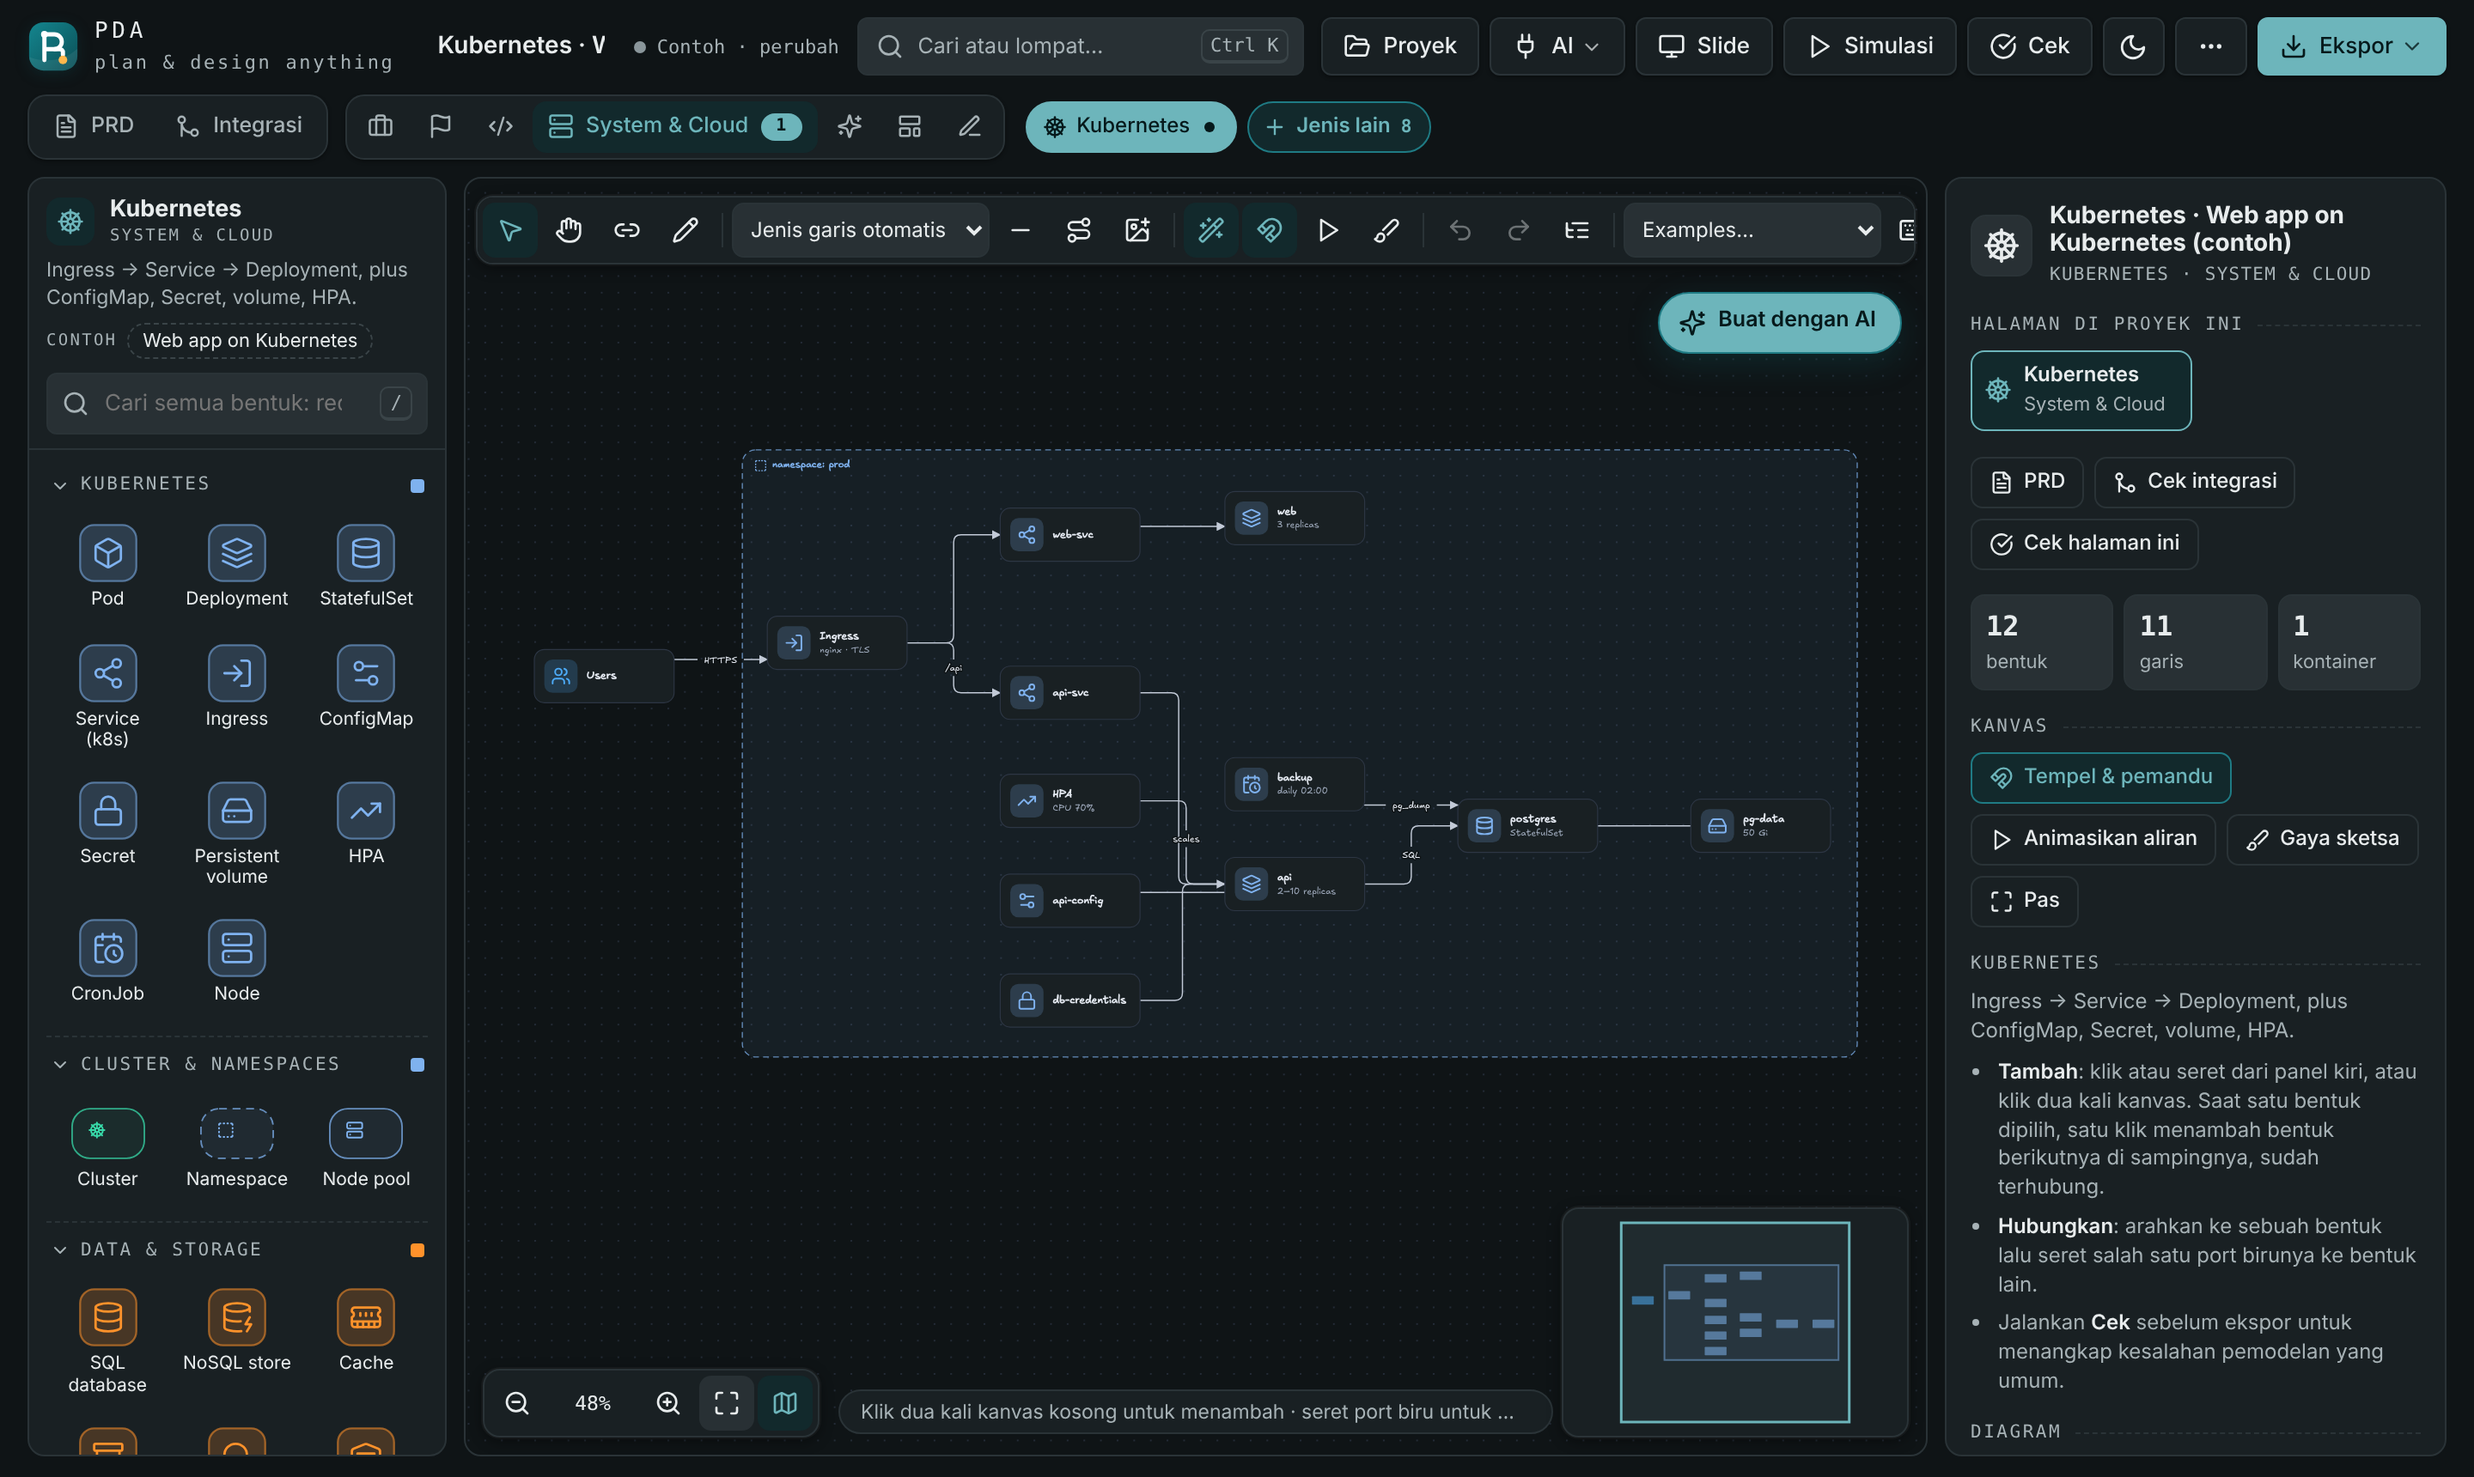
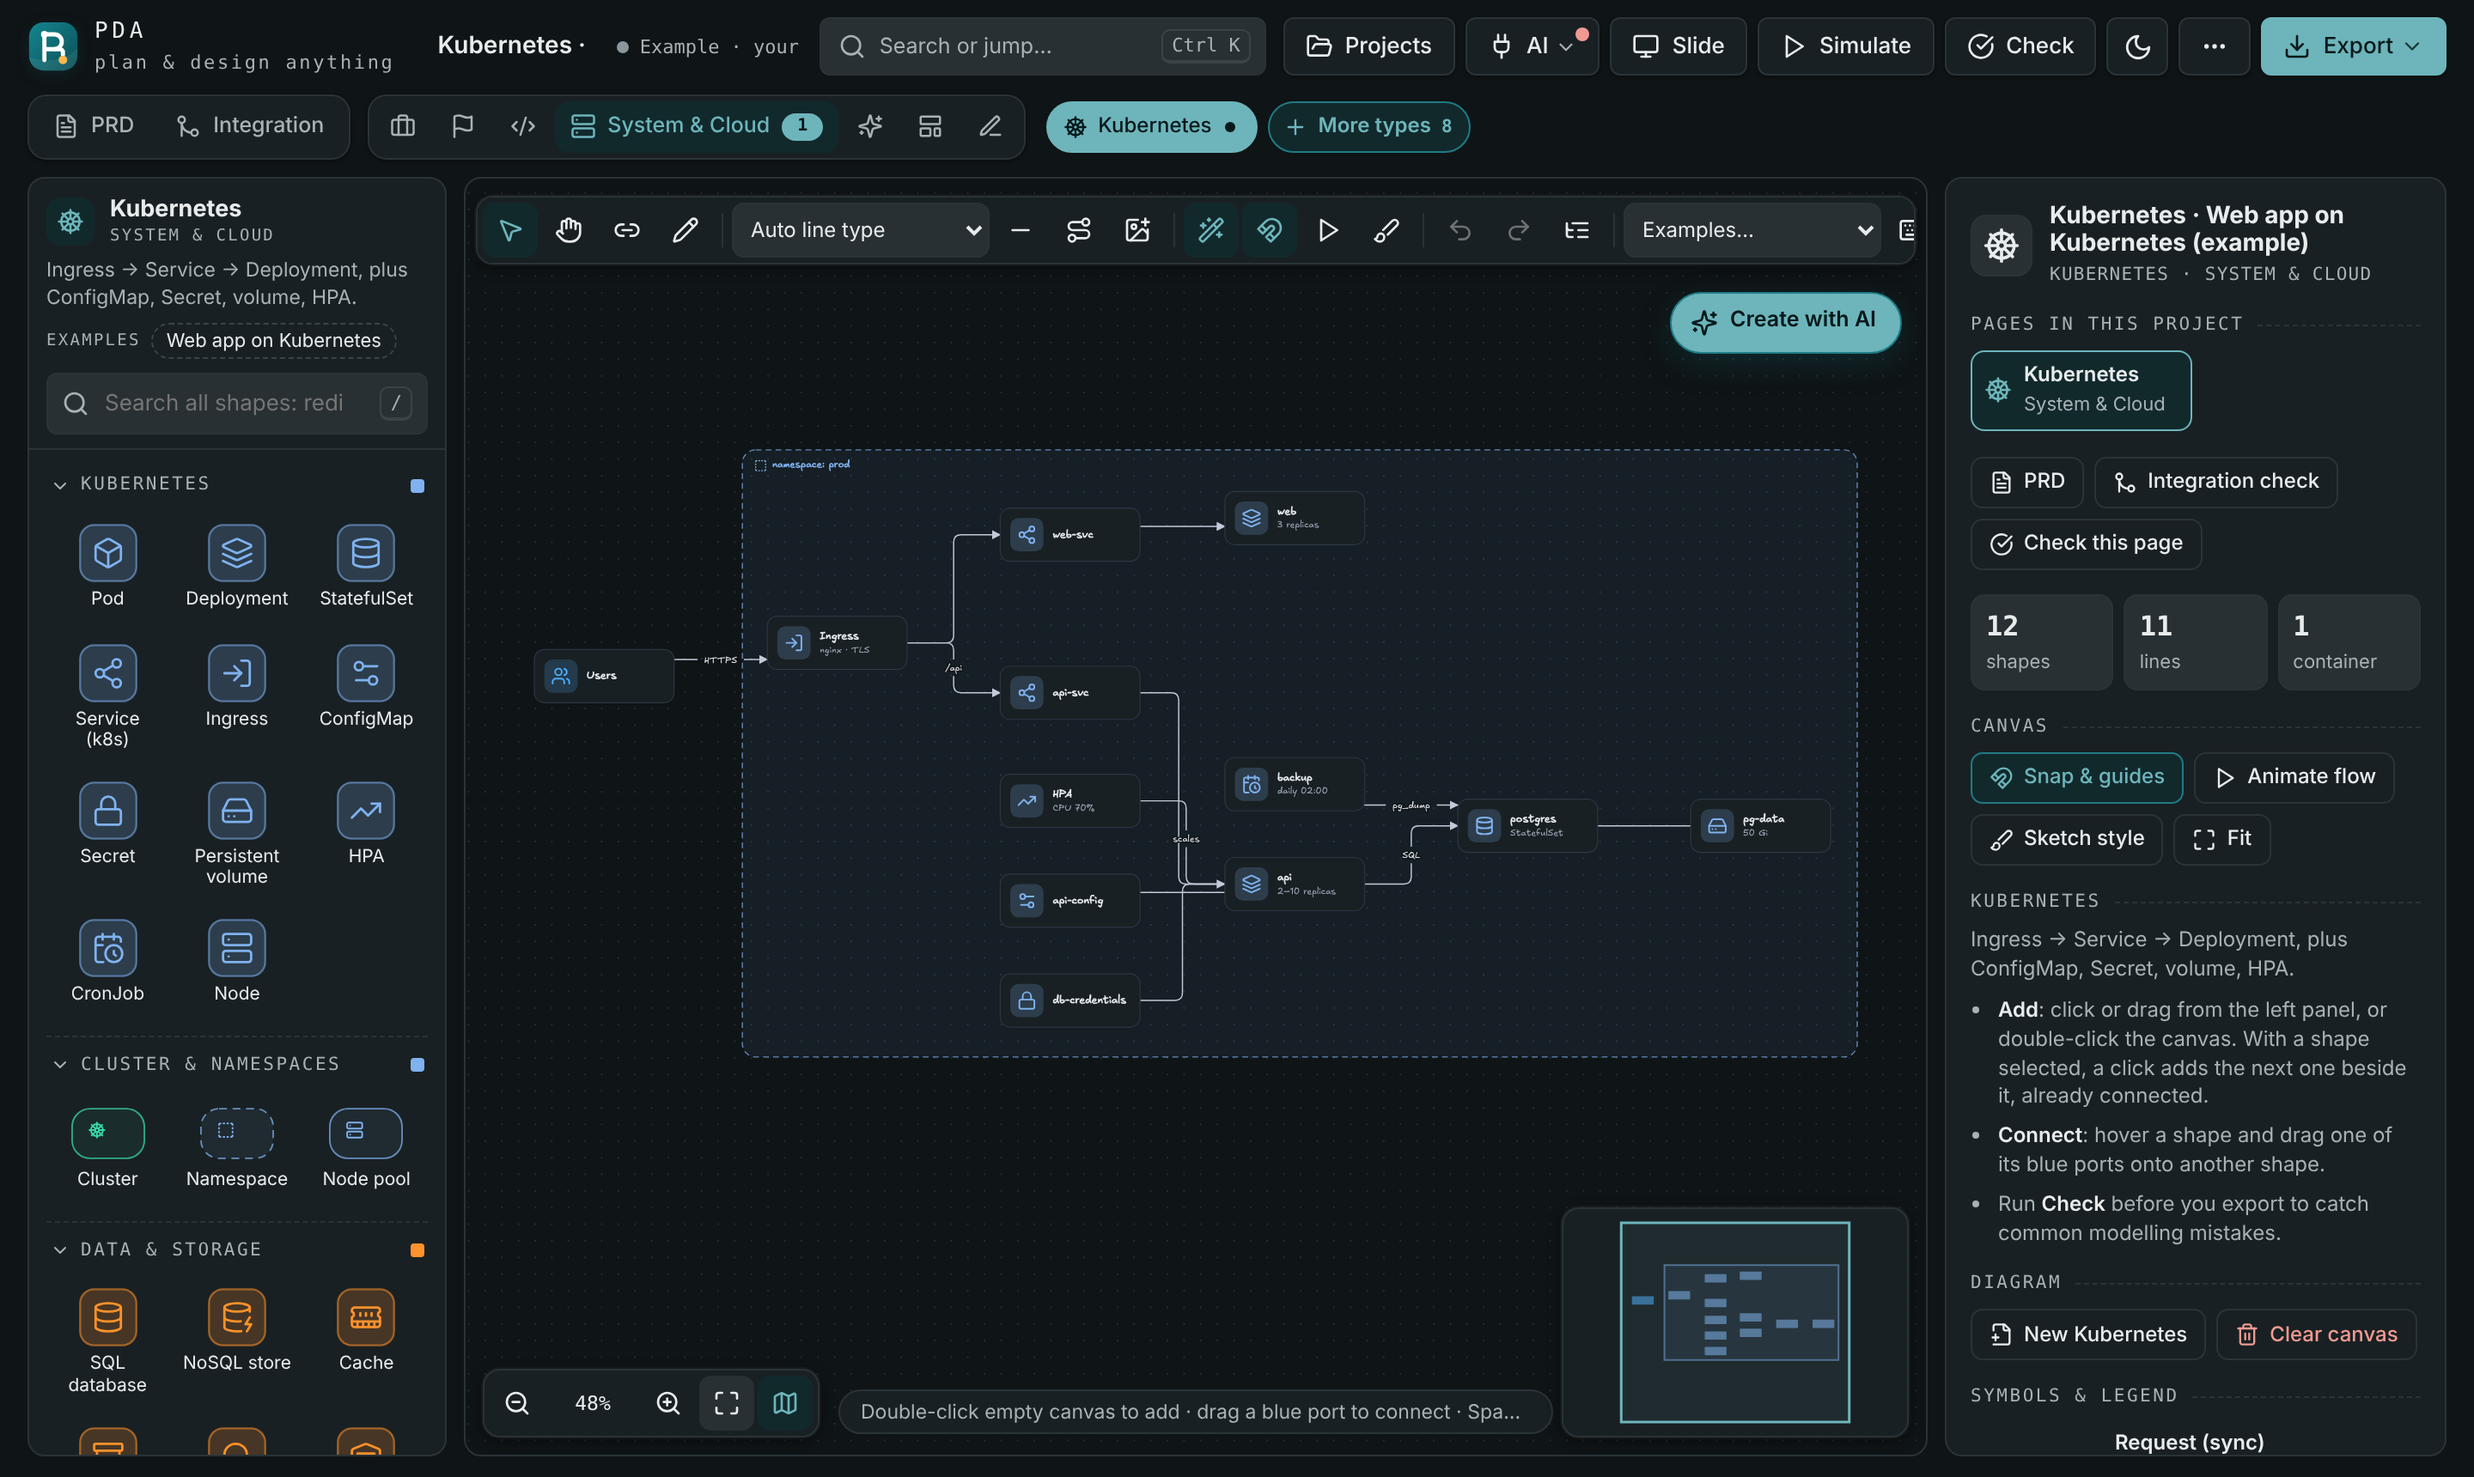
docs: interface languages, when AI connects by itself, English screenshots

diff --git a/README.md b/README.md
@@ -43,6 +43,7 @@ It ships as **one self-contained HTML file**. Open it from your disk, host it on
 | **Lines that behave** | Orthogonal router with A* search. In dense graphs (200 shapes, 300 lines) **no line passes through a shape**. Labels sit *on* the line like Excalidraw and slide along it. Drag segments, add bends, and switch between straight, elbow and curve |
 | **All 694 tech logos** | The whole [tech-stack-icons](https://www.tech-stack-icons.com/) pack (MIT) in light and dark. Search any of them, or browse *Semua logo tech*. The section loads only when opened. Catalog items without a logo in the pack get a monogram badge |
 | **Present it** | Pitch-deck slides with charts and tables, PowerPoint export, step-through simulation of flows |
+| **English or Indonesian** | The interface follows your browser's language and switches from the ⋯ menu (*Language*). The choice is remembered |
 | **Yours, on your disk** | Projects can live in a folder you pick as plain `.pda.json` files. They also export to PNG, SVG and JSON |
 
 <p align="center">
@@ -129,6 +130,7 @@ See [SECURITY.md](SECURITY.md) to report a vulnerability, and [docs/security.md]
 | [docs/line-routing.md](docs/line-routing.md) | The router, labels, waypoints and keyboard shortcuts for lines |
 | [docs/project-folder.md](docs/project-folder.md) | Saving projects to a folder, the `.pda.json` format |
 | [docs/architecture.md](docs/architecture.md) | Source layout, ES modules and install order, extension setters, types, build |
+| [docs/i18n.md](docs/i18n.md) | Interface languages, adding a translation |
 | [docs/security.md](docs/security.md) | Threat model, CSP, sanitization, key handling |
 | [docs/testing.md](docs/testing.md) | Test suites and how to add one |
 | [AGENTS.md](AGENTS.md) | Rules for humans and coding agents working on this repo |
@@ -142,7 +144,7 @@ Yes. `dist/index.html` holds the app, the icons (Lucide), the tech logos and the
 
 <details><summary><b>Do I need an API key for AI?</b></summary>
 
-Not when PDA runs inside Claude, which provides the built-in model. Standalone, pick a provider under **AI** and paste your key, or run a local model with Ollama or LM Studio for free.
+It depends where PDA runs. **Inside Claude** (as an artifact), the built-in model uses your Claude account, so no key is needed. **Standalone** (`dist/index.html`, GitHub Pages), there is no Claude connection: `npm install` only installs developer tools, and building with Claude Code does not link the app to Claude either. Pick a provider under **AI** and paste a key (an Anthropic API key gives you Claude), or run a local model with Ollama or LM Studio for free. The status dot tells you whether it connects.
 </details>
 
 <details><summary><b>Where is my work saved?</b></summary>

diff --git a/README.id.md b/README.id.md
@@ -31,6 +31,7 @@ PDA dikirim sebagai **satu file HTML mandiri**. File itu bisa dibuka langsung da
 - **Buat dengan AI di setiap kanvas**: jenis diagram bisa dipilih sendiri atau ditentukan AI. Hasilnya diletakkan *di sebelah* hasil sebelumnya, dan Ctrl+Z membatalkannya. Pakai Claude bawaan atau model milikmu (OpenAI, Anthropic, Gemini, Groq, OpenRouter, DeepSeek, Ollama, LM Studio). Status **Terhubung / Tidak terhubung** langsung muncul begitu kunci API dimasukkan.
 - **Garis yang rapi**: router ortogonal A*. Pada graf padat (200 bentuk, 300 garis) tidak ada satu pun garis yang menembus bentuk. Label duduk di atas garis seperti di Excalidraw dan bisa digeser. Segmen bisa diseret dan tekukan bisa ditambah.
 - **Semua 694 logo** dari tech-stack-icons (MIT), versi terang dan gelap. Semuanya bisa dicari di palet atau dibuka lewat bagian *Semua logo tech*. Produk yang belum punya logo diberi lencana monogram.
+- **Bahasa Inggris atau Indonesia**: antarmuka mengikuti bahasa browser dan bisa diganti dari menu ⋯ (*Bahasa*). Pilihannya diingat.
 - **Folder proyek**: proyek disimpan sebagai file `.pda.json` di folder pilihanmu. Daftarnya bisa di-scroll dan langsung dibuka.
 
 ## Mulai cepat
@@ -60,6 +61,10 @@ npm test             # semua tes browser (400+ cek)
 | **AI & Automation** | n8n, LangGraph agent, RAG pipeline, Multi-agent, ML pipeline |
 | **Produk & UX** | User flow, Wireframe, Customer journey, Sitemap, Persona, Empathy map, Kano, MoSCoW, RICE, Roadmap, Service blueprint |
 | **Whiteboard** | Papan bebas, Mind map, Pitch deck |
+
+## Apakah AI langsung terhubung ke Claude?
+
+Tergantung di mana PDA dibuka. **Di dalam Claude** (sebagai artifact), model bawaan memakai akun Claude-mu, jadi tidak perlu kunci. **Di luar Claude** (`dist/index.html` atau GitHub Pages), PDA tidak terhubung ke Claude. `npm install` hanya memasang alat pengembangan, dan dibuat dengan Claude Code pun tidak membuat aplikasinya terhubung. Pilih penyedia di menu **AI** lalu tempel kunci API (kunci Anthropic API = Claude), atau jalankan model lokal gratis dengan Ollama/LM Studio. Titik status di tombol AI menunjukkan terhubung atau tidak.
 
 ## Keamanan & datamu
 

diff --git a/docs/i18n.md b/docs/i18n.md
@@ -1,0 +1,25 @@
+# Interface languages
+
+PDA's interface speaks **English** and **Bahasa Indonesia**.
+
+- **Default:** the browser's language. An Indonesian browser gets Indonesian; everything else gets English.
+- **Switch:** ⋯ menu → *Language: English* / *Bahasa: Indonesia*, or `Ctrl+K` → "language". PDA saves the open project, remembers the choice in this browser (`rancang:lang`) and reloads.
+- **Scope:** the interface changes language: menus, panels, hints, messages, the PRD template and the headings PDA writes into the PRD. **Diagram content does not**: what you typed, the built-in example diagrams and the sample text inside frameworks stay as written.
+
+## How it works
+
+The source has text in both languages, because older modules were written in English and newer ones in Indonesian. Two dictionaries translate the page as it renders. A `MutationObserver` covers text nodes, `title`, `aria-label` and `placeholder`, and never touches the canvas or inputs:
+
+| File | Role |
+|---|---|
+| `src/i18n/lang.ts` | `LANG`, `setLang()`, the menu entries, and `L(en, id)` for text built in code |
+| `src/i18n/id.ts` | English → Indonesian (`I18N` exact strings, `I18N_RE` patterns) |
+| `src/i18n/en.ts` | Indonesian → English (`EN` exact strings, `EN_RE` patterns). Long entries also match inside composed text |
+
+## Adding or changing text
+
+- New text built in code: `L('Saved to the folder.', 'Tersimpan di folder.')`.
+- Fixed English text in `src/shell/body.html` or code: add its Indonesian to `I18N`.
+- Fixed Indonesian text: add its English to `EN`.
+
+`tests/lang.cjs` walks every page, panel and dialog in English and fails if any Indonesian text is left. `tests/lang-crawl.cjs` prints what is left, for fixing.

diff --git a/AGENTS.md b/AGENTS.md
@@ -7,7 +7,7 @@ Rules for anyone (human or coding agent) changing PDA.
 - The product is **one HTML file that works offline**. Do not add runtime dependencies or frameworks. TypeScript, esbuild and Prettier are build-time only.
 - Edit `src/`, never `dist/`. Run `npm run build` to regenerate `dist/index.html`, and commit both.
 - Run `npm run check` (type check + quick tests) before every commit, and `npm test` before a release.
-- UI copy is Indonesian first. English strings get a translation in `src/i18n/id.ts`.
+- The interface speaks English and Indonesian ([docs/i18n.md](docs/i18n.md)). New text built in code uses `L('English', 'Indonesia')` from `src/i18n/lang.ts`; fixed English text gets an Indonesian entry in `src/i18n/id.ts`. `tests/lang.cjs` fails if any Indonesian is left in the English interface.
 
 ## Write the least code that solves it (Ponytail)
 

diff --git a/docs/architecture.md b/docs/architecture.md
@@ -19,7 +19,7 @@ src/
   ai/           generation, intent detection, providers, connection status, AI button
   projects/     multi-page projects, PRD, project folder
   slides/       pitch deck and PPTX export
-  i18n/         Indonesian UI strings
+  i18n/         interface language: lang.ts (choice), en.ts / id.ts (dictionaries)
 scripts/build.mjs   esbuild bundle → CSP-hashed dist/index.html
 tests/              Playwright suites, runner, hook.ts (test-only internals)
 ```

diff --git a/CONTRIBUTING.md b/CONTRIBUTING.md
@@ -26,7 +26,7 @@ Open `dist/index.html` in a browser to try your change.
 
 - A new diagram type or framework (see `src/diagrams/business.ts` for the pattern).
 - Missing tech logos: add an MIT/ISC-licensed SVG to `src/vendor/tech-stack-icons.ts`.
-- Translations and UX copy fixes in `src/i18n/id.ts`.
+- Translations and UX copy fixes in `src/i18n/` (see [docs/i18n.md](docs/i18n.md)).
 - Accessibility issues reported by `tests/axe2.cjs`.
 
 ## Reporting bugs

diff --git a/docs/testing.md b/docs/testing.md
@@ -23,6 +23,7 @@ Each suite is a plain Playwright script that prints `PASS …` / `FAIL …` line
 | axe2, axe3 | Accessibility (axe-core, light and dark, narrow and wide) |
 | ux2, wp, rtdrag, layout, perf | Labels, waypoints, routing while dragging, re-layout, router invariants |
 | theme, tech | Theme switching, tech logos |
+| lang | English/Indonesian interface, nothing left untranslated, switching is remembered |
 
 ## Adding a suite
 
